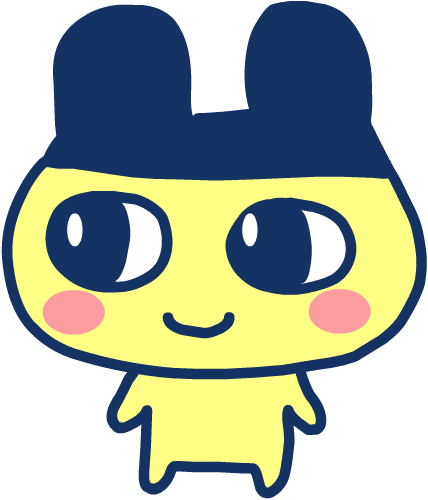
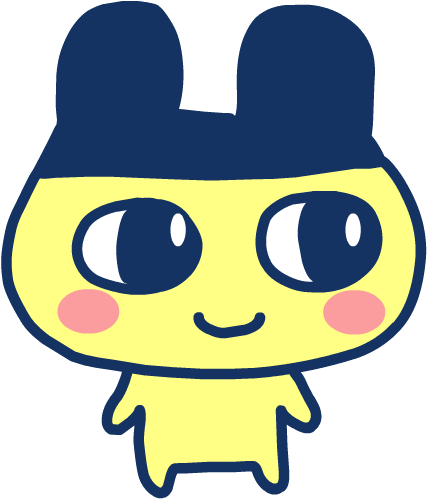
idle screen update

diff --git a/main.js b/main.js
@@ -42,13 +42,11 @@
 // canvas tutorial
 // create variable
 // query selector selects html element
-var canvas = document.querySelector('canvas');
 // canvas.width = window.innerWidth;
 // canvas.height = window.innerHeight;
 
 // create a variable for conntext
 // returning a drawing context, mpassing abunch of methods adn fucntions which allow sus to draw in 2d 
-var c = canvas.getContext('2d');
 
 // 3 event listener evennts
 
@@ -60,13 +58,9 @@ var c = canvas.getContext('2d');
 // c.fillRect(0, 300, 450, 450);
 // c.stroke();
 
-// font
-c.font = "30px Arial";
-c.fillStyle = "grey";
-c.fillText("feed", 48 , 430);
-c.fillText('play', 200, 430);
-c.fillText('clean', 338, 430);
 
+// character();
+// character();
 // sprite visual
 
 // circle = {
@@ -118,8 +112,137 @@ c.fillText('clean', 338, 430);
 // c.beginPath();
 // c.fillRect(canvas.width / 2, 240, 50, 50);
 
-let img = new Image(); 
-img.src = 'assets/char.png';
-c.drawImage(img, 0, 0);
+
 // background
 
+
+// variables for floor and jump height
+// img
+// character object
+// function - show img
+// set interval
+    // sit annd  wait for ticks to happen, and pass funnction 
+const canvas = document.querySelector('canvas');
+const c = canvas.getContext('2d');
+// canvas.width = 45
+let img = new Image();
+img.src = 'assets/char.png';
+let img2 = new Image();
+img2.src = 'assets/char-flipped.png';
+let carrot = new Image();
+carrot.src = 'assets/carrot.png';
+
+tamaApp = {};
+
+tamaApp.defaultLocationX = canvas.width * 0.5;
+tamaApp.defaultLocationY = canvas.height * 0.5;
+tamaApp.defaultStat = 100;
+
+tamaApp.charStat = {
+    location: {
+        x: tamaApp.defaultLocation,
+        y: tamaApp.defaultLocation
+    },
+    speedX: 2.5,
+    speedY: 1.5,
+    energy: tamaApp.defaultStat,
+    cleanliness: tamaApp.defaultStat,
+    fun: tamaApp.defaultStat
+}
+
+tamaApp.drawChar = function(x, y) {
+    c.drawImage(img, x, y, img.width / 4, img.height / 4);
+}
+tamaApp.drawChar2 = function (x, y) {
+    c.drawImage(img2, x, y, img.width / 4, img.height / 4);
+}
+
+
+
+
+// font
+// x = 0
+// y = 0
+
+tamaApp.text = function() {
+    c.font = "30px Arial";
+    c.fillStyle = "grey";
+    c.fillText("feed", 48, 430);
+    c.fillText('play', 200, 430);
+    c.fillText('clean', 338, 430);
+}
+
+tamaApp.statusBar = function() {
+    c.fillRect(25, 10, 100, 10);
+}
+
+// on load functio
+tamaApp.moveCharIdle = function() {
+    // makes loop 
+    requestAnimationFrame(tamaApp.moveCharIdle);
+    // clear the drawigns made before the nenw drawinng
+    c.clearRect(0, 30, 450, 370);
+    // dar the cahracter in halfway thru
+    tamaApp.drawChar(tamaApp.defaultLocationX, tamaApp.defaultLocationY);
+    // create a speed for  the characer changing the x locations
+    tamaApp.defaultLocationX += tamaApp.charStat.speedX;
+    tamaApp.defaultLocationY += tamaApp.charStat.speedY;
+
+
+    // so that the char doesnt go pas the canvas width
+    if(tamaApp.defaultLocationX > 350 || tamaApp.defaultLocationX < 10) {
+        // this makes the character go in the opp direction
+        tamaApp.charStat.speedX = -tamaApp.charStat.speedX;
+        
+    }
+    
+    if (tamaApp.defaultLocationY > 250 || tamaApp.defaultLocationY < 40 ) {
+        // this makes the character go in the opp direction
+        tamaApp.charStat.speedY = -tamaApp.charStat.speedY;
+
+    }
+
+    if (tamaApp.charStat.speedX < 0) {
+        c.clearRect(0, 30, 450, 370);
+        tamaApp.drawChar2(tamaApp.defaultLocationX, tamaApp.defaultLocationY);
+    }
+        
+    };
+
+
+// tamaApp.moveCharFood() {
+
+// }
+
+
+    // x++;
+    // console.log(tamaApp.defaultLocation);
+    // console.log(x);
+
+
+
+
+// c.translate(0, 0);
+
+
+// c.drawImage(img, 10, 10);
+
+
+
+
+
+
+
+$(function () {
+    // tamaApp.drawChar(tamaApp.defaultLocation, tamaApp.defaultLocation );
+    tamaApp.text();   
+    tamaApp.statusBar();
+    tamaApp.moveCharIdle();
+    // tamaApp.moveChar();   
+    // setInterval(tamaApp.drawChar(x, y), 3000);
+    // console.log(drawChar());                                                                                                                                                                                                                                                                         
+});
+
+// draw in order -
+// set in
+// array 
